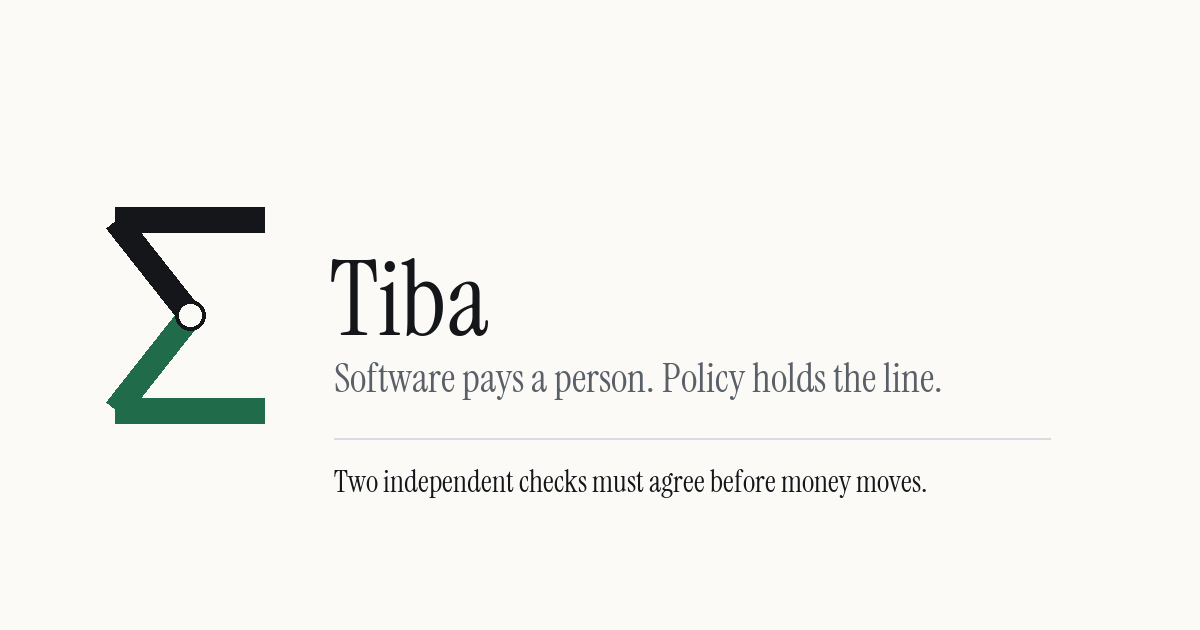
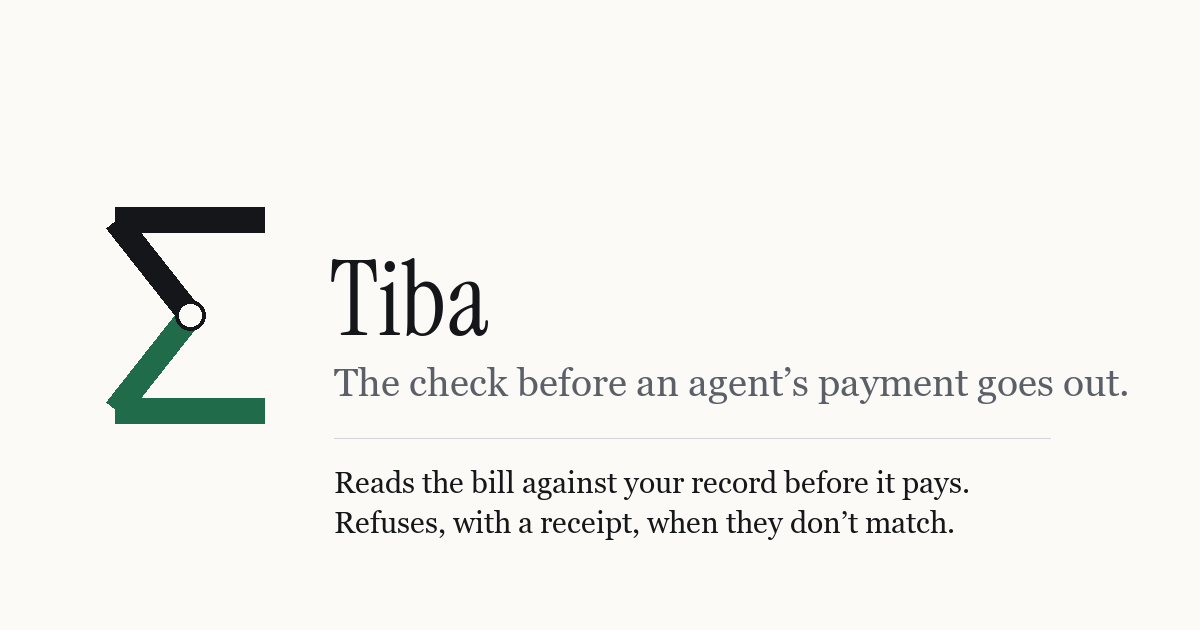
Homepage leads with the refusal; link preview and agent card match
- First hero button opens the latest demo refusal receipt (falls back to /try);
  "Create your wallet" is secondary; demo-wallet and permissions buttons leave the hero.
- New lede paragraph on the bill as the attack; the record sets the amount.
- "A real example" moves directly under the header.
- "How it works" rewritten around the record check; five wallet/permission
  paragraphs folded into one line.
- Link preview image and A2A agent card say "the check" instead of
  "two independent checks must agree".

Claude-Session: https://claude.ai/code/session_01JA52Z9GiJ8u7wYLF49QtyR

Changed region(s): [[0.2775, 0.573, 0.9558, 0.6333], [0.2775, 0.8143, 0.8017, 0.8444], [0.2775, 0.754, 0.8017, 0.7841]]

diff --git a/src/app/page.tsx b/src/app/page.tsx
@@ -53,24 +53,78 @@ export default async function Home() {
             It reads the bill against your own record — the amount, the job, the payee — and pays
             only when they match. When they don&apos;t, it refuses, and you get a receipt either way.
           </p>
+          <p className="lede mt-4">
+            Once agents pay bills, the bill itself becomes the attack. The check that reads your
+            record is never shown the bill, and the amount paid always comes from your record, so a
+            fake or padded bill can&apos;t raise it.
+          </p>
           <div className="mt-8 flex flex-wrap gap-3">
-            <Link className="btn btn-primary" href="/start">
-              Create your wallet
+            <Link className="btn btn-primary" href={refusedIntent ? `/r/${refusedIntent.publicToken}` : "/try"}>
+              See it refuse a bad bill
             </Link>
             <Link className="btn btn-secondary" href="/try">
               Try it
             </Link>
+            <Link className="btn btn-secondary" href="/start">
+              Create your wallet
+            </Link>
             <Link className="btn btn-ghost" href="/signin">
               Sign in
             </Link>
-            <Link className="btn btn-ghost" href="/app">
-              See the demo wallet
-            </Link>
-            <Link className="btn btn-ghost" href="/permissions">
-              Explore permissions
-            </Link>
           </div>
         </header>
+
+        <section className="border-t border-line pt-12">
+          <p className="eyebrow">A real example</p>
+          <div className="mt-6 grid gap-4 md:grid-cols-2">
+            {refusedIntent ? (
+              <div className="card p-5">
+                <span className="pill pill-refused">Refused</span>
+                <p className="mt-3 text-sm">
+                  {refusedDisagreement ??
+                    "The two checks gave different answers, so Tiba refused."}
+                </p>
+                <Link className="btn btn-ghost mt-3" href={`/r/${refusedIntent.publicToken}`}>
+                  Open receipt →
+                </Link>
+              </div>
+            ) : null}
+            {paidIntent ? (
+              <div className="card p-5">
+                <span className="pill pill-paid">Paid</span>
+                <p className="mt-3 text-sm">
+                  <span className="num">{microsToUsdc(paidIntent.amountMicros)}</span> sent to a
+                  separate recipient wallet on the test network. No real money moved.
+                </p>
+                <p className="eyebrow mt-4">Transaction</p>
+                {paidIntent.explorerUrl ? (
+                  <a className="link mt-1 inline-block text-sm" href={paidIntent.explorerUrl}>
+                    View on test network
+                  </a>
+                ) : (
+                  <p className="num mt-1 break-all text-xs text-muted">{paidIntent.digest ?? "missing"}</p>
+                )}
+                <p className="eyebrow mt-4">Check references</p>
+                <p className="num mt-1 break-all text-xs text-muted">
+                  A: {requestIdFor(paidIntent.adjudications, "artifact")} · B:{" "}
+                  {requestIdFor(paidIntent.adjudications, "payer_record")}
+                </p>
+                <div>
+                  <Link className="btn btn-ghost mt-3" href={`/r/${paidIntent.publicToken}`}>
+                    Open receipt →
+                  </Link>
+                </div>
+              </div>
+            ) : (
+              <div className="card p-5">
+                <span className="pill pill-paid">Paid</span>
+                <p className="mt-3 text-sm text-muted">
+                  No paid example yet. Send a payment from Send.
+                </p>
+              </div>
+            )}
+          </div>
+        </section>
 
         <section className="border-t border-line pt-12">
           <p className="eyebrow">Eval of an earlier build, 29 Aug 2026, on a mock settlement rail. Not live figures.</p>
@@ -127,36 +181,28 @@ export default async function Home() {
             <li>
               <p className="num text-sm text-muted">01</p>
               <p className="lede mt-3">
-                Write what your agent may do in the language you already use.
+                You keep a record of what you owe: the job, the amount, the payee.
               </p>
             </li>
             <li>
               <p className="num text-sm text-muted">02</p>
               <p className="lede mt-3">
-                Review the scope, budget, and expiry. You choose whether to sign.
+                When a bill comes in, Tiba reads it and checks it against your record before anything
+                is signed.
               </p>
             </li>
             <li>
               <p className="num text-sm text-muted">03</p>
               <p className="lede mt-3">
-                The agent stays inside that permission and leaves a signed receipt behind.
+                If it names a different job or payee, it refuses. Otherwise it pays the amount your
+                record approved, never the bill&apos;s. You get a receipt either way.
               </p>
             </li>
           </ol>
           <div className="mt-10 space-y-4">
             <p className="lede">
-              A permission slip says exactly what is allowed, how much may be spent, and when it stops.
-            </p>
-            <p className="lede">
-              Revoke it when the task changes. New actions stop at the boundary you set.
-            </p>
-            <p className="lede">
-              Every outcome is a receipt that can be checked independently, without trusting a dashboard.
-            </p>
-            <p className="lede">The wallet stays: agents still pay from it within the limits you set.</p>
-            <p className="lede">
-              Around it sit limits you set and your software can only read: a per-payment
-              ceiling, hourly and daily spending limits, a list of saved recipients, and a freeze.
+              Around the check: a signed permission slip, spending limits and a freeze that your agent
+              can read but not change.
             </p>
             <p className="lede">
               Most agent-payment plumbing, including x402 — the protocol AWS, Cloudflare, Circle,
@@ -167,57 +213,6 @@ export default async function Home() {
           </div>
         </section>
 
-        <section className="border-t border-line pt-12">
-          <p className="eyebrow">A real example</p>
-          <div className="mt-6 grid gap-4 md:grid-cols-2">
-            {refusedIntent ? (
-              <div className="card p-5">
-                <span className="pill pill-refused">Refused</span>
-                <p className="mt-3 text-sm">
-                  {refusedDisagreement ??
-                    "The two checks gave different answers, so Tiba refused."}
-                </p>
-                <Link className="btn btn-ghost mt-3" href={`/r/${refusedIntent.publicToken}`}>
-                  Open receipt →
-                </Link>
-              </div>
-            ) : null}
-            {paidIntent ? (
-              <div className="card p-5">
-                <span className="pill pill-paid">Paid</span>
-                <p className="mt-3 text-sm">
-                  <span className="num">{microsToUsdc(paidIntent.amountMicros)}</span> sent to a
-                  separate recipient wallet on the test network. No real money moved.
-                </p>
-                <p className="eyebrow mt-4">Transaction</p>
-                {paidIntent.explorerUrl ? (
-                  <a className="link mt-1 inline-block text-sm" href={paidIntent.explorerUrl}>
-                    View on test network
-                  </a>
-                ) : (
-                  <p className="num mt-1 break-all text-xs text-muted">{paidIntent.digest ?? "missing"}</p>
-                )}
-                <p className="eyebrow mt-4">Check references</p>
-                <p className="num mt-1 break-all text-xs text-muted">
-                  A: {requestIdFor(paidIntent.adjudications, "artifact")} · B:{" "}
-                  {requestIdFor(paidIntent.adjudications, "payer_record")}
-                </p>
-                <div>
-                  <Link className="btn btn-ghost mt-3" href={`/r/${paidIntent.publicToken}`}>
-                    Open receipt →
-                  </Link>
-                </div>
-              </div>
-            ) : (
-              <div className="card p-5">
-                <span className="pill pill-paid">Paid</span>
-                <p className="mt-3 text-sm text-muted">
-                  No paid example yet. Send a payment from Send.
-                </p>
-              </div>
-            )}
-          </div>
-        </section>
 
         <section className="border-t border-line pt-12">
           <p className="eyebrow">Signed outcomes</p>

diff --git a/src/lib/a2a.ts b/src/lib/a2a.ts
@@ -96,7 +96,7 @@ export function agentCard(origin: string) {
   return {
     name: "Tiba",
     description:
-      "Agent-to-human payout authorization and settlement: two independent verification channels must agree on the work order and amount before a stablecoin payout settles, and Tiba refuses when they disagree.",
+      "Agent-to-human payout check and settlement: reads the bill against the payer's own record before a stablecoin payout settles, pays the amount the record approved, and refuses with a public receipt when the bill names a different job or amount.",
     version: "1.0.0",
     supportedInterfaces: [{ url: `${origin}/a2a`, protocolBinding: "JSONRPC", protocolVersion: A2A_VERSION }],
     provider: { organization: "Tiba", url: origin },
